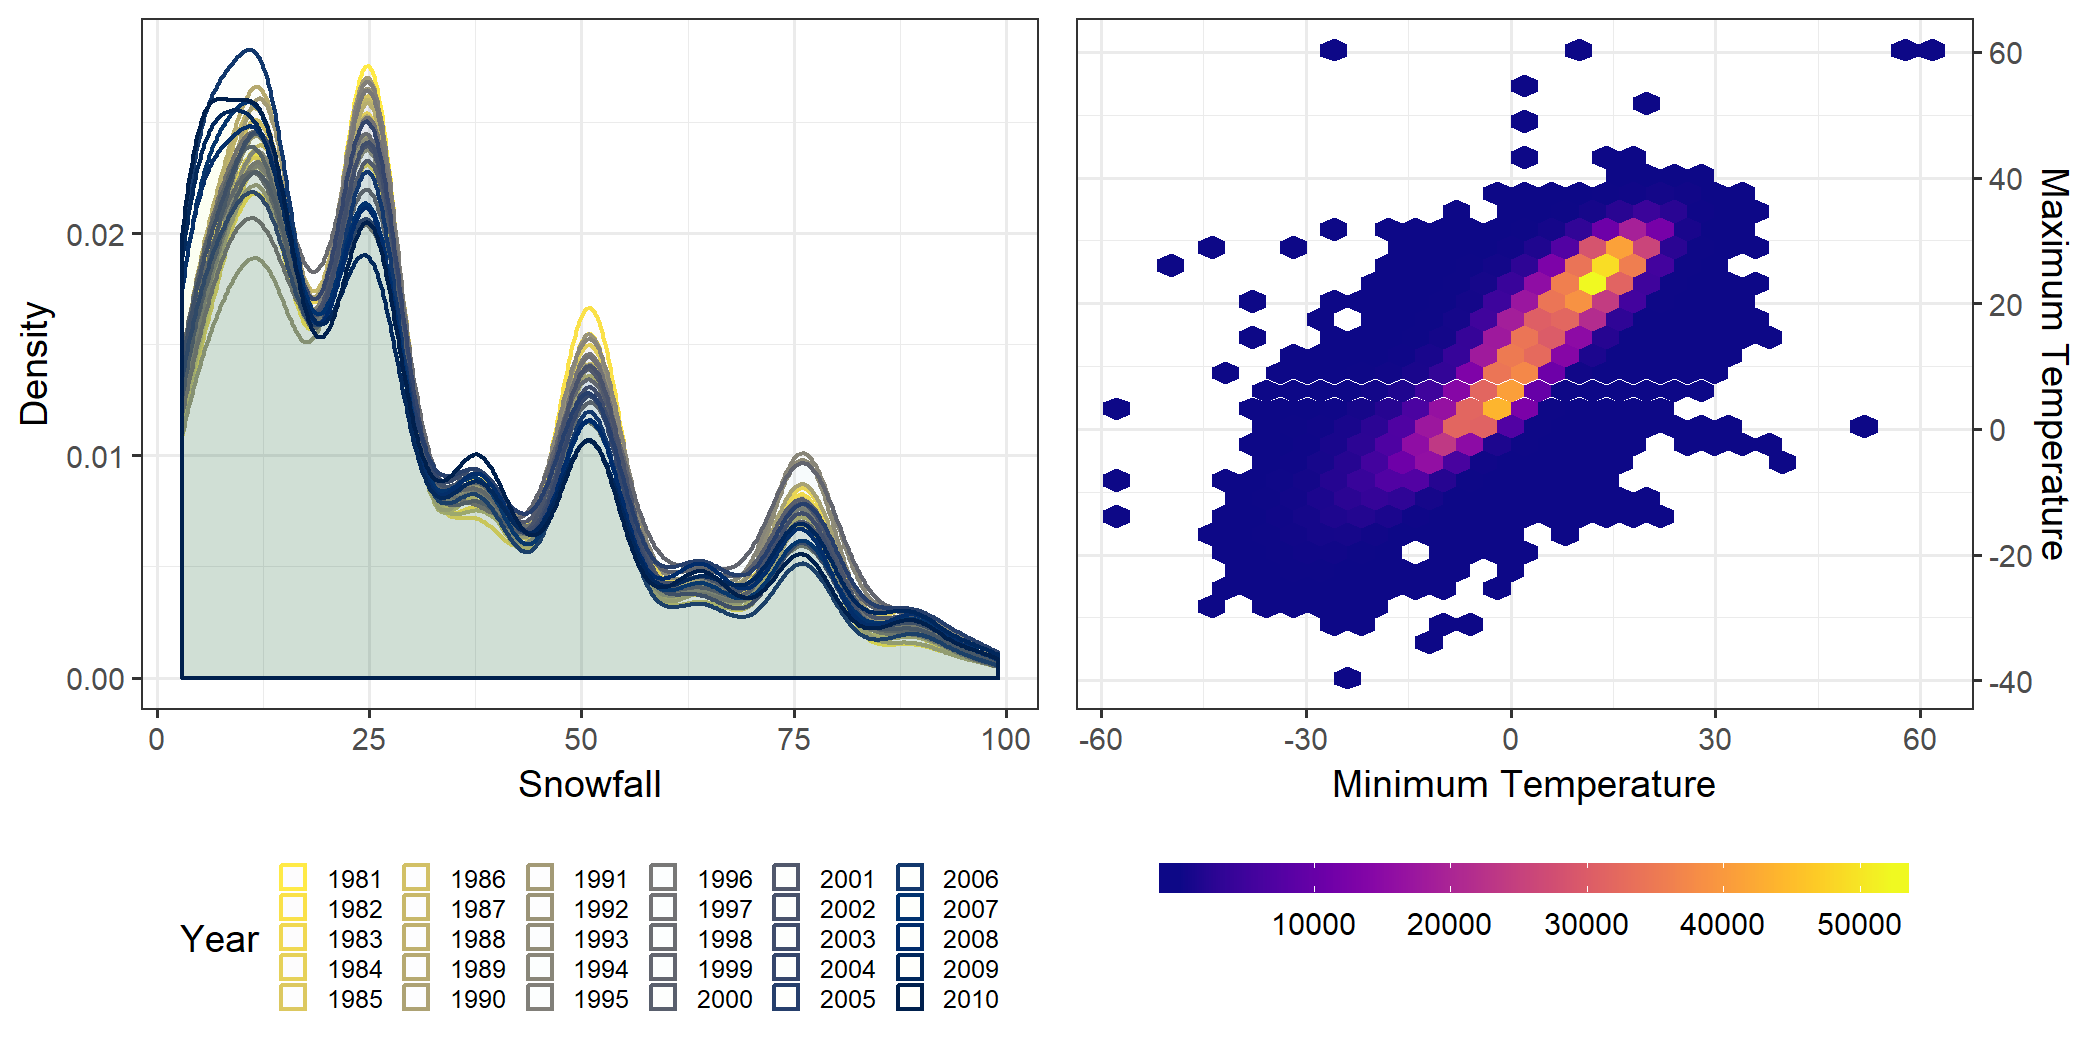
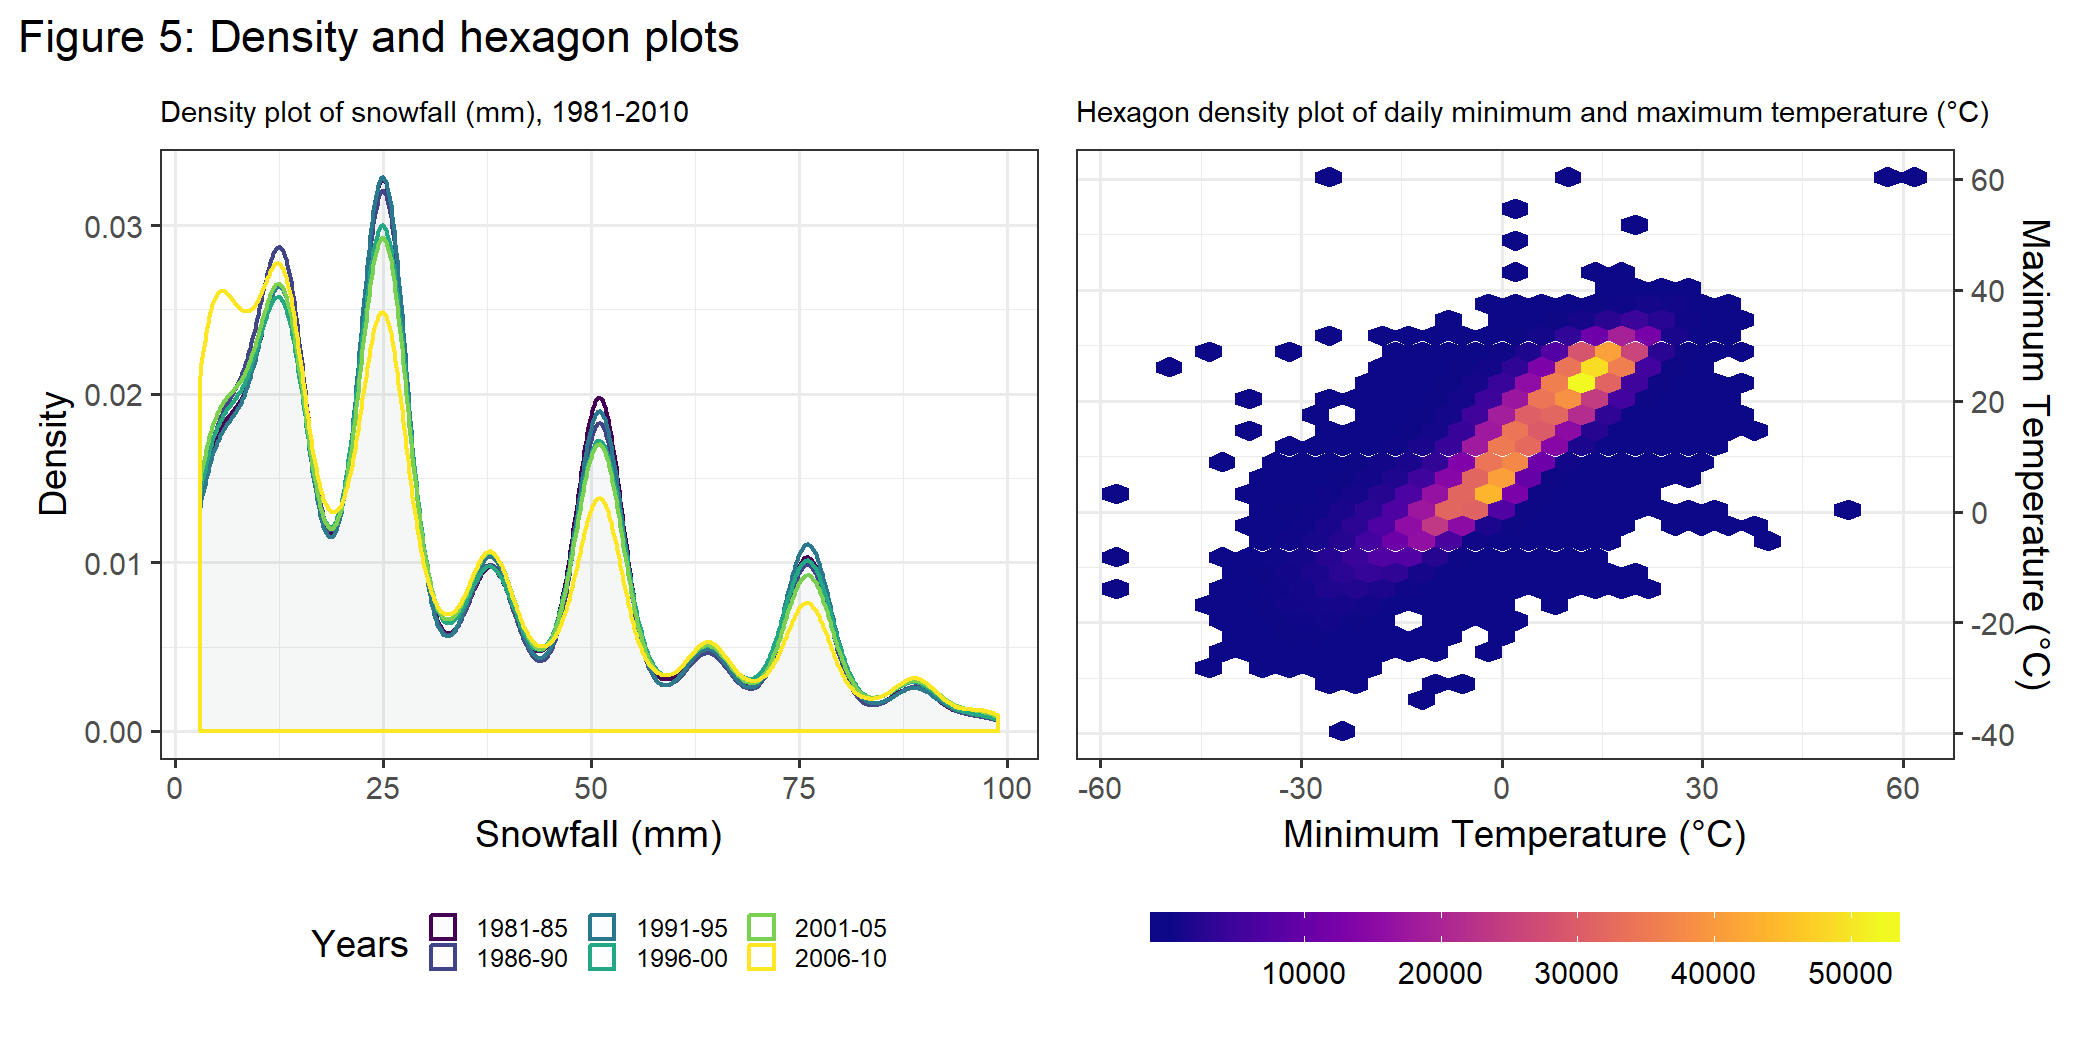
further plot edits and plot descriptions

diff --git a/p8105_hw3_ntw2117.md b/p8105_hw3_ntw2117.md
@@ -300,42 +300,19 @@ noaa_data <- p8105.datasets::ny_noaa %>%
 
 The NOAA dataset contains weather information for all five New York state weather stations from 1981 to 2010. The dataset has 2595176 observations and 9 variables. Each observation represents one day from 1981 to 2010 for one of the weather stations the corresponding data was collected at. The variables provide information on that days minimum temperature and maximum temperature in degrees celsius, the snowfall for that day in millimeters, the snowdepth for that day in millimeters, and the amount of precipitation for that day in millimeters. It is important to note that uncleaned dataset reported minimum daily temperature and maximum daily temperature in tenths of degrees celsius and precipitation in tenths of millimeters. However, these were converted to proper units for ease of interpretation. The present NOAA dataset contains large amounts of missing data. Of all observations, 1372743 contain at least one missing value. In addition, 72278 have missing values for all five key variables.
 
+The average amount of snowfall is 4.987025 mm. However, the median amount of snowfall is 0 mm and the modal amount is 0 mm. The difference between the average amount of snowfall and the median indicates snowfall is right-skewed. This makes sense as most days out of a year there is no snowfall, but a couple of days will experience large amounts.
+
 ``` r
 noaa_data %>% 
-  group_by(month) %>% 
-  summarize(avg_snow = round(mean(snow, na.rm = TRUE), 4))
-```
-
-    ## # A tibble: 12 x 2
-    ##    month     avg_snow
-    ##    <chr>        <dbl>
-    ##  1 April       2.48  
-    ##  2 August      0.0018
-    ##  3 December   14.7   
-    ##  4 February   14.4   
-    ##  5 January    16.9   
-    ##  6 July        0.0004
-    ##  7 June        0.0016
-    ##  8 March       9.24  
-    ##  9 May         0.0791
-    ## 10 November    4.27  
-    ## 11 October     0.402 
-    ## 12 September   0.002
-
-``` r
-avg_daily_temp <- noaa_data %>%
-  filter(month %in% c("January", "July")) %>%
-  mutate(avg_temp = (tmin + tmax) / 2)
-
-avg_daily_temp %>% 
   filter(month %in% c("January", "July")) %>% 
   group_by(year, month) %>% 
-  summarize(avg_temp = mean(avg_temp, na.rm = TRUE)) %>% 
+  summarize(avg_temp = mean(tmax, na.rm = TRUE)) %>% 
   ggplot(aes(x = year, y = avg_temp)) + 
     geom_line(color = "#7496D2", size = 1) + 
   facet_grid(~ month, 
              scales = "free") + 
-  labs(x = "Year", 
+  labs(title = "Figure 4: Average maximum temperature (°C) in January and July, 1981-2010", 
+       x = "Year", 
        y = "Average Daily Temperature (°C)") +
   theme(axis.text.x = element_text(angle = 45,
                                    vjust = 0.4), 
@@ -345,6 +322,8 @@ avg_daily_temp %>%
 ```
 
 <img src="p8105_hw3_ntw2117_files/figure-markdown_github/average daily temp plot in january and july-1.png" width="100%" style="display: block; margin: auto;" />
+
+Figure 4 shows the average maximum daily temperature in January and July from 1981-2010. The average max temperature in Jaunary tends to center around zero degrees while the temperature for July varies around 27 degrees. In addition, the average maximum temperature for January appears to have more variation compared to that of July.
 
 ``` r
 temp_hex <- noaa_data %>%
@@ -356,31 +335,46 @@ temp_hex <- noaa_data %>%
                                 option = "plasma") + 
     theme(legend.position = "bottom",  
           legend.key.height = unit(0.1, "in"), 
-          legend.key.width = unit(0.5, "in")) + 
-    labs(x = "Minimum Temperature", 
-         y = "Maximum Temperature") + 
+          legend.key.width = unit(0.5, "in"),
+          plot.title = element_text(size = 7)) + 
+    labs(title = "Hexagon density plot of daily minimum and maximum temperature (°C)",
+         x = "Minimum Temperature (°C)", 
+         y = "Maximum Temperature (°C)") + 
     scale_y_continuous(position = "right")
   
-snow_1981_2010 <- noaa_data %>%
+snow_density <- noaa_data %>%
   filter(snow > 0 & snow < 100) %>%
   mutate(year = as.factor(year)) %>%
-  ggplot(aes(x = snow, fill = year, color = year)) +
+  mutate(year_cat = fct_collapse(year, 
+                                 "1981-85" = c("1981", "1982", "1983", "1984", "1985"), 
+                                 "1986-90" = c("1986", "1987", "1988", "1989", "1990"), 
+                                 "1991-95" = c("1991", "1992", "1993", "1994", "1995"), 
+                                 "1996-00" = c("1996", "1997", "1998", "1999", "2000"), 
+                                 "2001-05" = c("2001", "2002", "2003", "2004", "2005"), 
+                                 "2006-10" = c("2006", "2007", "2008", "2009", "2010"))) %>% 
+  ggplot(aes(x = snow, fill = year_cat, color = year_cat)) +
   geom_density(alpha = 0.01) +
-    viridis::scale_fill_viridis(name = "Year", 
+    viridis::scale_fill_viridis(name = "Years", 
                                 discrete = TRUE) + 
-    viridis::scale_color_viridis(name = "Year",
+    viridis::scale_color_viridis(name = "Years",
                                  discrete = TRUE, 
-                                 option = "cividis", 
-                                 direction = -1) + 
-    labs(x = "Snowfall", 
+                                 option = "viridis") + 
+    labs(title = "Density plot of snowfall (mm), 1981-2010",
+         x = "Snowfall (mm)", 
          y = "Density") + 
     theme(legend.position = "bottom", 
           legend.direction = "horizontal", 
           legend.key.size = unit(0.1, "in"), 
-          legend.text = element_text(size = 6)) + 
-    guides(fill = guide_legend(ncol = 6))
+          legend.text = element_text(size = 6),
+          plot.title = element_text(size = 7))
 
-snow_1981_2010 + temp_hex
+snow_temp_plot <- snow_density + temp_hex
+
+wrap_elements(snow_temp_plot) + ggtitle("Figure 5: Density and hexagon plots")
 ```
 
 <img src="p8105_hw3_ntw2117_files/figure-markdown_github/snow and temperature plot-1.png" width="100%" style="display: block; margin: auto;" />
+
+Figure 5 shows a density plot of snowfall (mm) from 1981 to 2010, for observations with snowfall greater than zero and less than 100, and a hexagon density plot of the daily minimum and maximum temperature for all observations. For the density plot, while the question asked for the distribution of snowfall separetely by year I decided that collapsing the years from 30 levels to 6 produced a better graphic and displayed the same information in a clearer manner. It can be seen that there are distinct peaks in density around 20, 25, 50, and 75 mm. However, one can also see that the heights of these peaks has decreased over each 5 year period. This might be indicative of increasing temperatures as the result of climate change resulting in less snowfall.
+
+In the hexagon density plot on the right, a relative linear relationship can be observed between minimum temperature and maximum temperature. It appears that the highest density of observations occurs in the middle of the plot and in this area there is an even more distinct positive, linear relationship.
